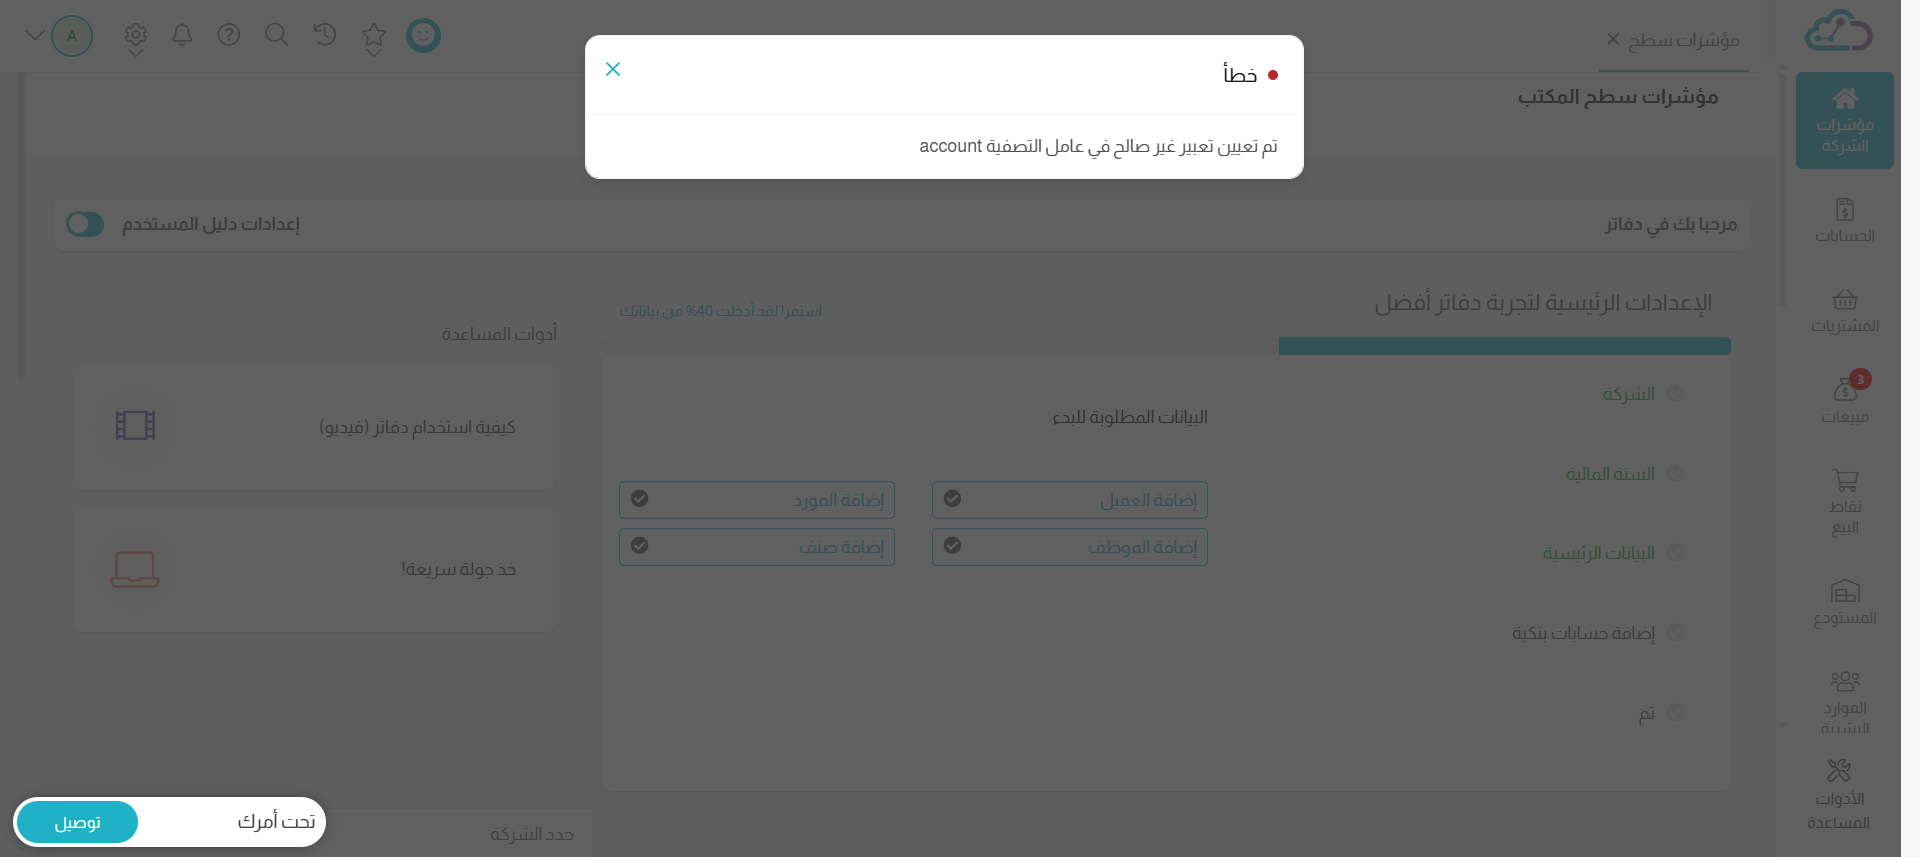
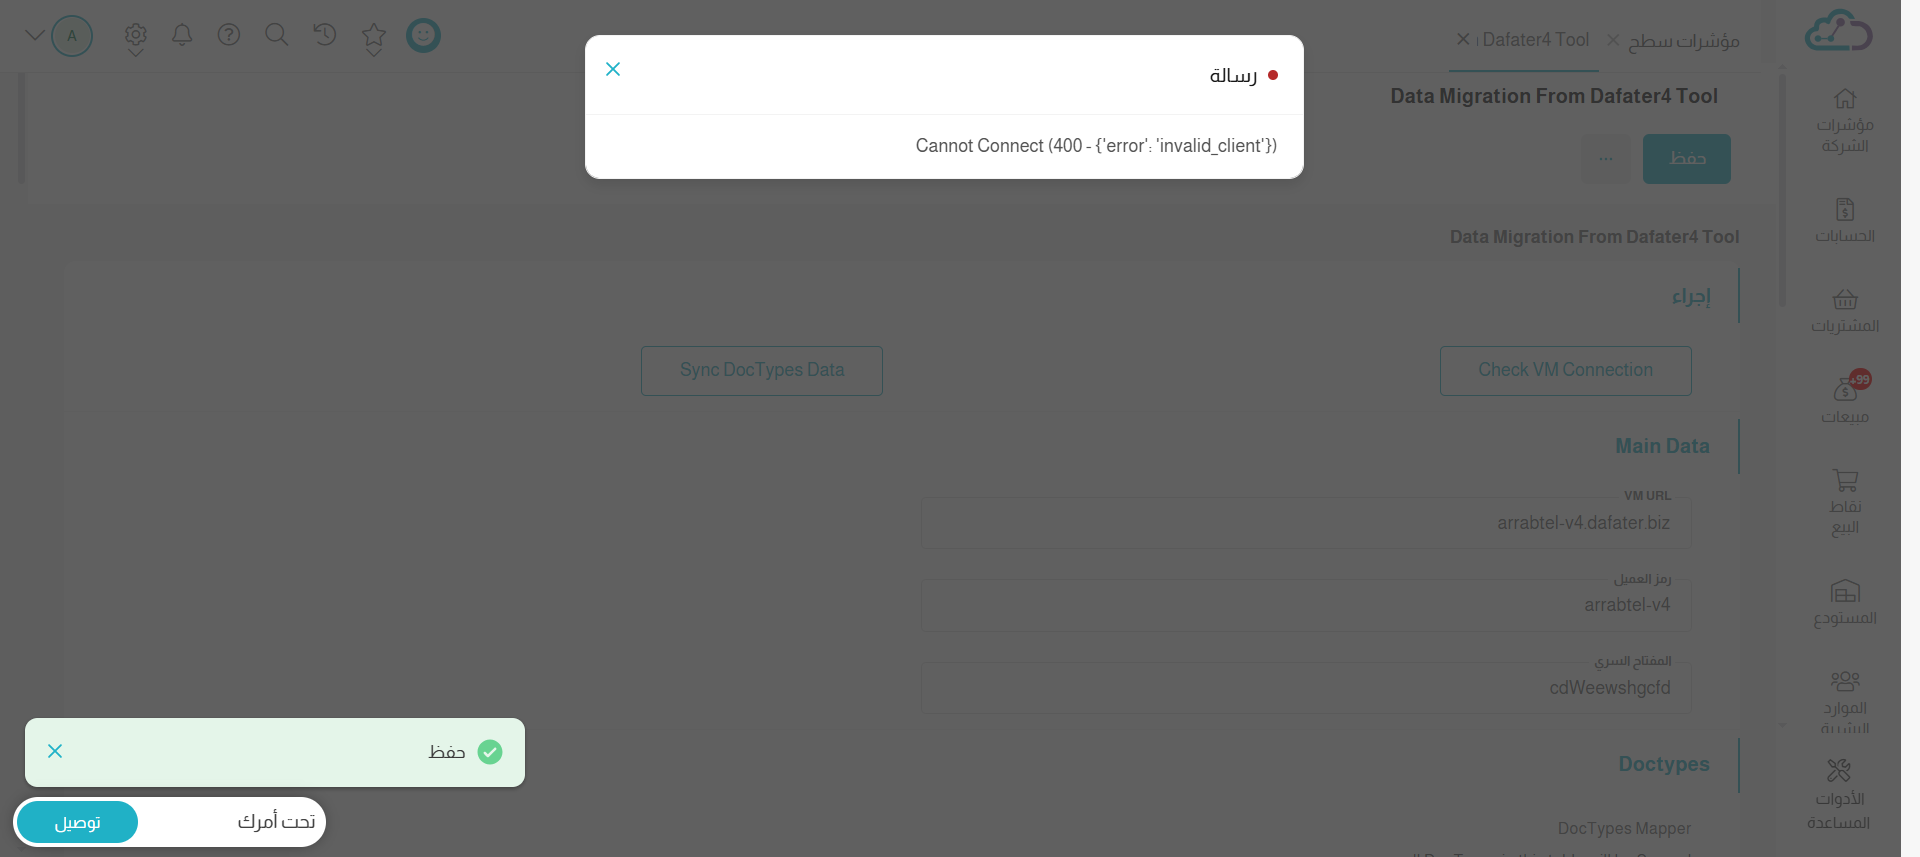
after setup_vm and daa migration test

diff --git a/src/main/java/Pages/DataMigrationToolPage.java b/src/main/java/Pages/DataMigrationToolPage.java
@@ -22,10 +22,15 @@ public class DataMigrationToolPage extends MainPage {
     private By allCheckBox = By.xpath("//*[contains(@class,'grid-heading-row with-filter')]//*[contains(@type,'checkbox')]");
     private By vmUrlInputField = By.xpath("(//*[contains(@class,'input-with-feedback form-control')])[1]");
     private By apiKeyInputField = By.xpath("(//*[contains(@class,'input-with-feedback form-control')])[2]");
+    private By saveBtn = By.xpath("(//*[contains(@data-action_name,'Save')])");
     private By secretKeyInputField = By.xpath("(//*[contains(@class,'input-with-feedback form-control')])[3]");
     By overlay = By.xpath("//*[contains(@class,'freeze-message-container')]");
 
     public void clickOnCheckVmConnectionBtn() {
+        waitUntilOverlayDisappear(overlay, GeneralConstants.freezeTimeOut);
+
+        waitUntilElementVisibility(saveBtn, GeneralConstants.minTimeOut);
+        getWebElement(saveBtn).click();
         waitUntilOverlayDisappear(overlay, GeneralConstants.freezeTimeOut);
         waitUntilElementVisibility(checkVmConnectionBtn, GeneralConstants.minTimeOut);
         getWebElement(checkVmConnectionBtn).click();
@@ -36,7 +41,11 @@ public class DataMigrationToolPage extends MainPage {
     }
 
     public void clickOnSyncDocTypesDataBtn() {
-       Allure.step("click on sync doc types data btn ");
+        Allure.step("click on sync doc types data btn ");
+        waitUntilOverlayDisappear(overlay, GeneralConstants.freezeTimeOut);
+
+        waitUntilElementVisibility(saveBtn, GeneralConstants.minTimeOut);
+        getWebElement(saveBtn).click();
         waitUntilOverlayDisappear(overlay, GeneralConstants.freezeTimeOut);
         waitUntilElementVisibility(syncDocTypesDataBtn, GeneralConstants.minTimeOut);
         getWebElement(syncDocTypesDataBtn).click();
@@ -45,7 +54,7 @@ public class DataMigrationToolPage extends MainPage {
     }
 
     public void selectAllDocTypes() {
-       Allure.step(" choose all doc types");
+        Allure.step(" choose all doc types");
         waitUntilOverlayDisappear(overlay, GeneralConstants.freezeTimeOut);
         waitUntilElementVisibility(allCheckBox, GeneralConstants.minTimeOut);
         getWebElement(allCheckBox).click();
@@ -53,15 +62,15 @@ public class DataMigrationToolPage extends MainPage {
 
     public WebElement checkStatusMsg() {
         waitUntilElementVisibility(statusMsg, GeneralConstants.minTimeOut);
-       Allure.step(" msg after clicking on btn is >>>   " + getWebElement(statusMsg).getText());
-       Allure.step(getWebElement(statusMsg).getText());
+        Allure.step(" msg after clicking on btn is >>>   " + getWebElement(statusMsg).getText());
+        Allure.step(getWebElement(statusMsg).getText());
         return getWebElement(statusMsg);
     }
 
     public void closeStatusMsg() {
 
         waitUntilElementVisibility(closeIcon, GeneralConstants.minTimeOut);
-       Allure.step("close success msg ");
+        Allure.step("close success msg ");
         getWebElement(closeIcon).click();
 
     }
@@ -75,5 +84,6 @@ public class DataMigrationToolPage extends MainPage {
         getWebElement(apiKeyInputField).sendKeys(apiKey);
         getWebElement(secretKeyInputField).clear();
         getWebElement(secretKeyInputField).sendKeys(secretKey);
+
     }
 }

diff --git a/src/test/java/TestCases/ComparingReportsTest.java b/src/test/java/TestCases/ComparingReportsTest.java
@@ -120,7 +120,7 @@ public class ComparingReportsTest extends BaseTest {
         softAssert.assertAll();
     }
 
-    @Test(priority = 3, enabled = true)
+    @Test(priority = 3, enabled = false)
     public void TC03_comparingTaxDeclarationReport() throws InterruptedException, IOException {
 
         homePageLink_4 = mainPageObj.readDataFromPropertiesFile(configurationFilePath, "homePageLink_4");
@@ -153,7 +153,7 @@ public class ComparingReportsTest extends BaseTest {
         softAssert.assertAll();
     }
 
-    @Test(priority = 4, enabled = true)
+    @Test(priority = 4, enabled = false)
     public void TC04_comparingStockBalanceReport() throws InterruptedException, IOException {
 
         homePageLink_4 = mainPageObj.readDataFromPropertiesFile(configurationFilePath, "homePageLink_4");
@@ -193,7 +193,7 @@ public class ComparingReportsTest extends BaseTest {
         softAssert.assertAll();
     }
 
-    @Test(priority = 5, enabled = true)
+    @Test(priority = 5, enabled = false)
     public void TC05_comparingTrialBalanceReport() throws InterruptedException, IOException {
 
         homePageLink_4 = mainPageObj.readDataFromPropertiesFile(configurationFilePath, "homePageLink_4");
@@ -265,7 +265,7 @@ public class ComparingReportsTest extends BaseTest {
         softAssert.assertAll();
     }
 
-    @Test(priority = 6, enabled = true)
+    @Test(priority = 6, enabled = false)
     public void TC06_comparingBalanceSheetReport() throws InterruptedException, IOException {
 
         homePageLink_4 = mainPageObj.readDataFromPropertiesFile(configurationFilePath, "homePageLink_4");
@@ -303,7 +303,7 @@ public class ComparingReportsTest extends BaseTest {
         softAssert.assertAll();
     }
 
-    @Test(priority = 7, enabled = true)
+    @Test(priority = 7, enabled = false)
     public void TC07_comparingProfitAndLossReport() throws InterruptedException, IOException {
 
         homePageLink_4 = mainPageObj.readDataFromPropertiesFile(configurationFilePath, "homePageLink_4");

diff --git a/src/test/java/TestCases/DataMigrationTest.java b/src/test/java/TestCases/DataMigrationTest.java
@@ -1,13 +1,11 @@
 package TestCases;
 
-import GeneralConstants.GeneralConstants;
 import Pages.DataMigrationToolPage;
 import Pages.HomePage;
 import Pages.LoginPage;
 import Pages.SetupWizardPage;
 import io.qameta.allure.Allure;
 import io.qameta.allure.AllureLifecycle;
-//import jdk.internal.org.jline.utils.Log;
 import org.testng.Assert;
 import org.testng.annotations.Test;
 
@@ -15,15 +13,18 @@ public class DataMigrationTest extends BaseTest {
     LoginPage loginPageObj;
     HomePage homePageObj;
     SetupWizardPage setupWizardPageObj;
+
     DataMigrationToolPage dataMigrationToolPageObj;
+    //    private final String vmUrl = "mashraqicompany-v4.dafater.biz";
     private final String vmUrl = "tarkibat-v4.dafater.biz";
+    //    private final String clientKey = "mashraqicompany-v4";
     private final String clientKey = "tarkibat-v4";
     private final String secretKey = "3zFG68L4T89";
+
     private final String invalidSecretKey = "kX7NY9yMSag4";
     private final String successfulConnectionMsg = "Connected Successfully";
     private final String failureConnectionMsg = "Cannot Connect";
     private final String syncingMsg = "Enqueued Sync Data Method in Background";
-
 
     //    @Test(priority = 1,enabled = true,dependsOnMethods = "TC01_setupVm")
     @Test(priority = 1, enabled = true)

diff --git a/src/test/java/TestCases/SetupVmTest.java b/src/test/java/TestCases/SetupVmTest.java
@@ -1,12 +1,10 @@
 package TestCases;
 
 import GeneralConstants.GeneralConstants;
-import Pages.DataMigrationToolPage;
 import Pages.HomePage;
 import Pages.LoginPage;
 import Pages.SetupWizardPage;
 import io.qameta.allure.Allure;
-import org.testng.Assert;
 import org.testng.annotations.Test;
 
 public class SetupVmTest extends BaseTest {
@@ -15,14 +13,12 @@ public class SetupVmTest extends BaseTest {
     SetupWizardPage setupWizardPageObj;
 
 
-
-
     @Test(priority = 1, enabled = true)
     public void TC01_setupVm() {
         homePageObj = new HomePage(driver);
         setupWizardPageObj = new SetupWizardPage(driver);
         if (tryToGetWebElement(setupWizardPageObj.countryField) == GeneralConstants.SUCCESS) {
-           Allure.step(" setup Vm  ");
+            Allure.step(" setup Vm  ");
             setupWizardPageObj = new SetupWizardPage(driver);
             setupWizardPageObj.enterDefaultVMData();
             setupWizardPageObj.setupAccount();

diff --git a/src/main/java/GeneralConstants/GeneralConstants.java b/src/main/java/GeneralConstants/GeneralConstants.java
@@ -20,8 +20,8 @@ public class GeneralConstants {
 
     public final static String userName_4 = "Administrator";
     public final static String userName_5 = "Administrator";
-    public final static String password_5 = "Admin123456";
-    public final static String password_4 = "cdWeewshgcfd";
+    public final static String password_5 = "123456";
+    public final static String password_4 = "cAAscAAxhv7N";
 
 
     /************************************************* Variables  ************************************************/
